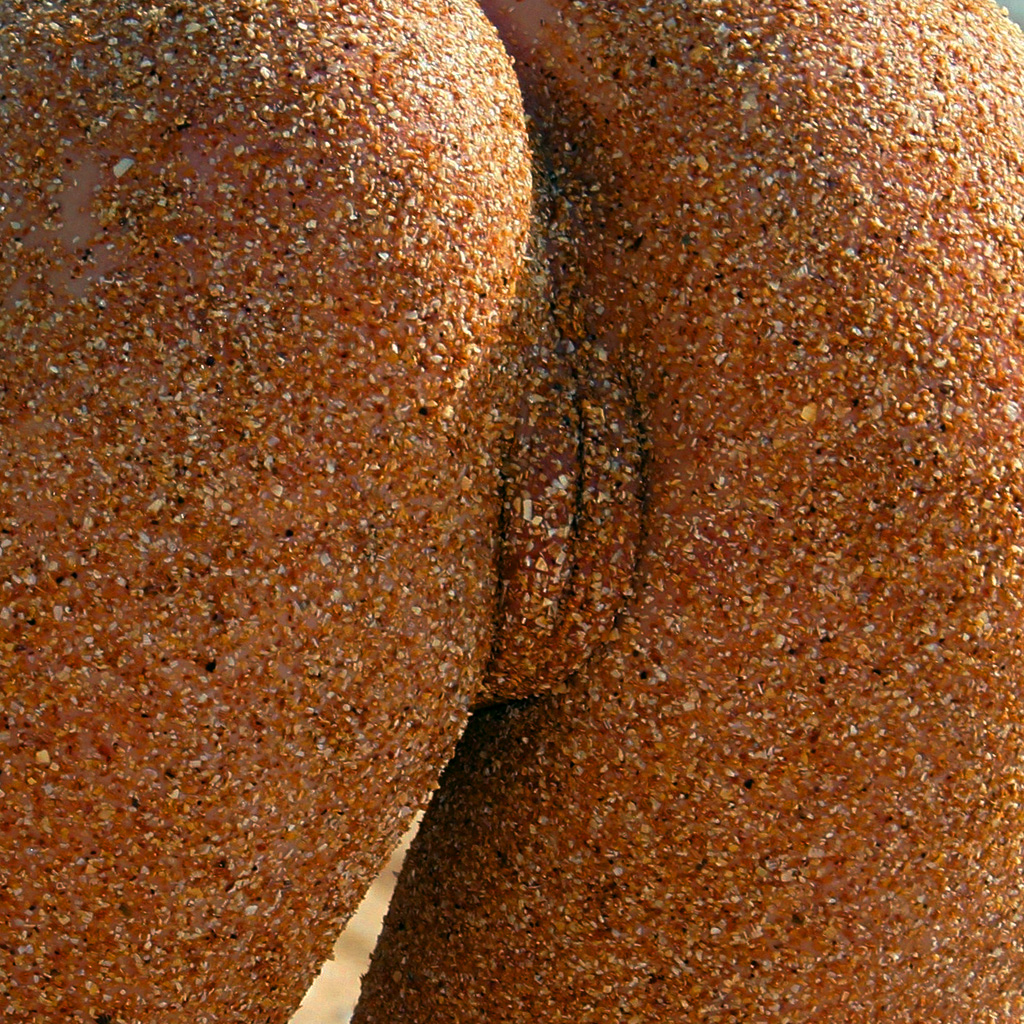
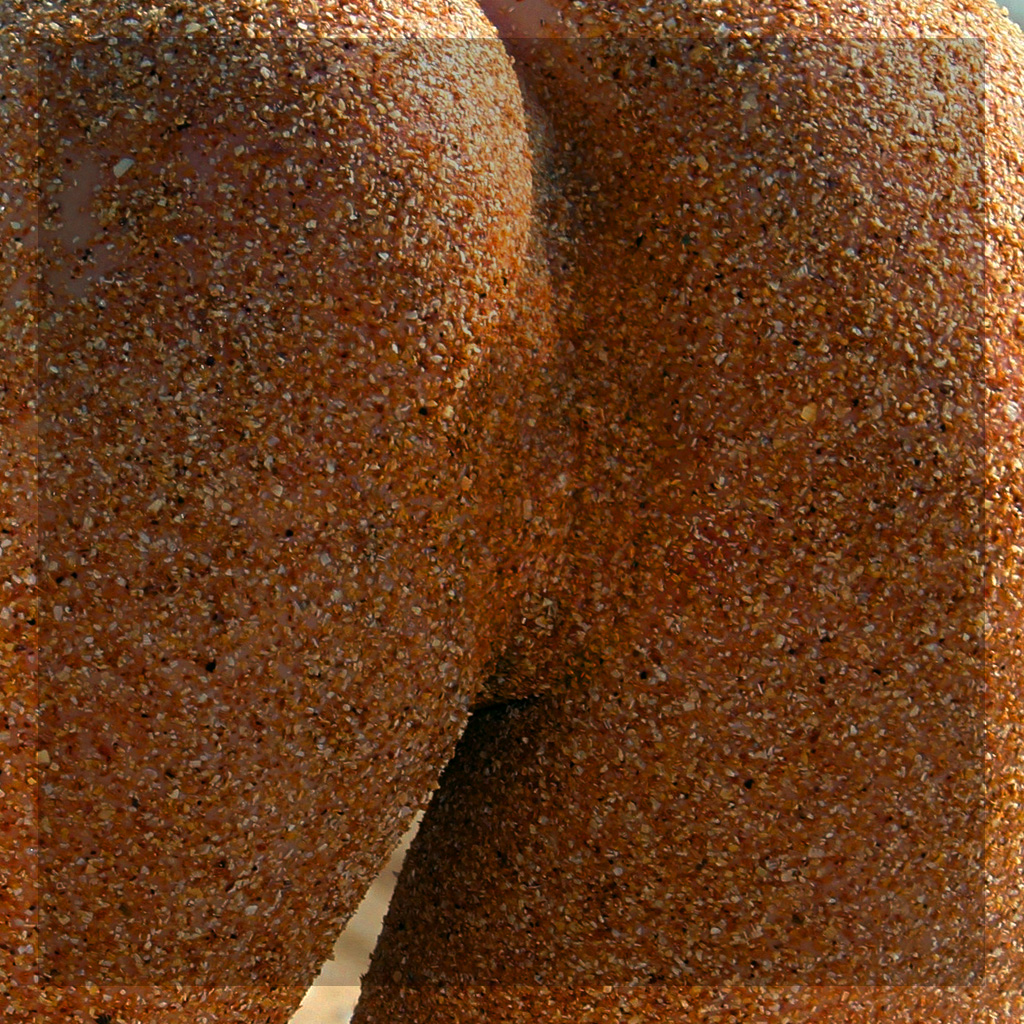
Added adt'l ex bgs, more minor tweaks and fixed

diff --git a/excerpt/ex_helpers.py b/excerpt/ex_helpers.py
@@ -166,12 +166,16 @@ class NounPhrase:
             #print("  ---")
             global TagExclDict
             UsedTagList = []
+
+            # ! Confused about what's supposed to be happening below
+            # ------------------------------------------------------
             if self._bVaryAdjTags and len(AdjReqTagList) == 0:
                 for tag in self.GetUnitTags(self._Noun):
                     if tag in TagExclDict:
                         NounTagList.append(tag)
                         #UsedTagList.append(tag)
                 #print("  Added any excluding noun tags for \"" + self._Noun + "\" to UsedTagList " + str(UsedTagList))
+            # ------------------------------------------------------
             for nountag in NounTagList:
                 for tag in TagExclDict[nountag]:
                     UsedTagList.append(tag)

diff --git a/excerpt/generators.py b/excerpt/generators.py
@@ -3112,7 +3112,7 @@ class Generator55(ExGen):
                #penis
                sTweet += "and his " + self.MaleBodyParts.Penis.FloweryDescription(bAddLen = True)
                if CoinFlip():
-                    sTweet += " and the way " + self.Semen.RandomDescription() + " " + VDrip.Past() + " from its " + self.MaleBodyParts.Penis.Head.FloweryDescription() 
+                    sTweet += " and the way " + self.Semen.RandomDescription(NounExclAdjList = ["silly"]) + " " + VDrip.Past() + " from its " + self.MaleBodyParts.Penis.Head.FloweryDescription() 
           elif CoinFlip():
                #testicles
                sTweet += "and his " + self.MaleBodyParts.Penis.FloweryDescription(bAddLen = True) + " and his "

diff --git a/excerpt/texttoimg.py b/excerpt/texttoimg.py
@@ -9,7 +9,7 @@ from util import *
 
 PATH = "excerpt/resources/"
 FONT = "NoticiaText-Regular.ttf"
-MAX_IMG_NUM = 104
+MAX_IMG_NUM = 108
 
 BGImgQ = HistoryQ(iQSize = 50)
 
@@ -166,14 +166,14 @@ def GetBGImg(iPicNo = 0):
      BGImg = None 
      
      if iPicNo == 0:
-          iPicNo = randint(1, MAX_IMG_NUM)
+          iPicNo = randint(89, MAX_IMG_NUM)
 
           i = 1
 
           while not BGImgQ.PushToHistoryQ(iPicNo) and i < 1000:
                iPicNo = randint(1, MAX_IMG_NUM)
                i = i + 1
-          #iPicNo = 100
+          #iPicNo = 106
      try:
           BGImg = Image.open(PATH + "bg_" + str(iPicNo) + ".jpg").convert('RGBA')
      except IOError as e:

diff --git a/excerpt/lust_bot.py b/excerpt/lust_bot.py
@@ -102,7 +102,12 @@ def InitBot(iTweetTimer,
                             PostToReddit_botlust(sLinkTitle = sText, sLinkURL = util.ExtractURLFromStatus(status))
 
                 excerpt.util.TweetHistoryQ.LogHistoryQ()
-                              
+            
+            Gen = None
+            currentDT = None 
+            image = None 
+            ImgFile = None
+
             i += 1
     except IOError as e:
         print("*** ERROR in lust_bot() ***\nFile IO Error: " + str(e))
